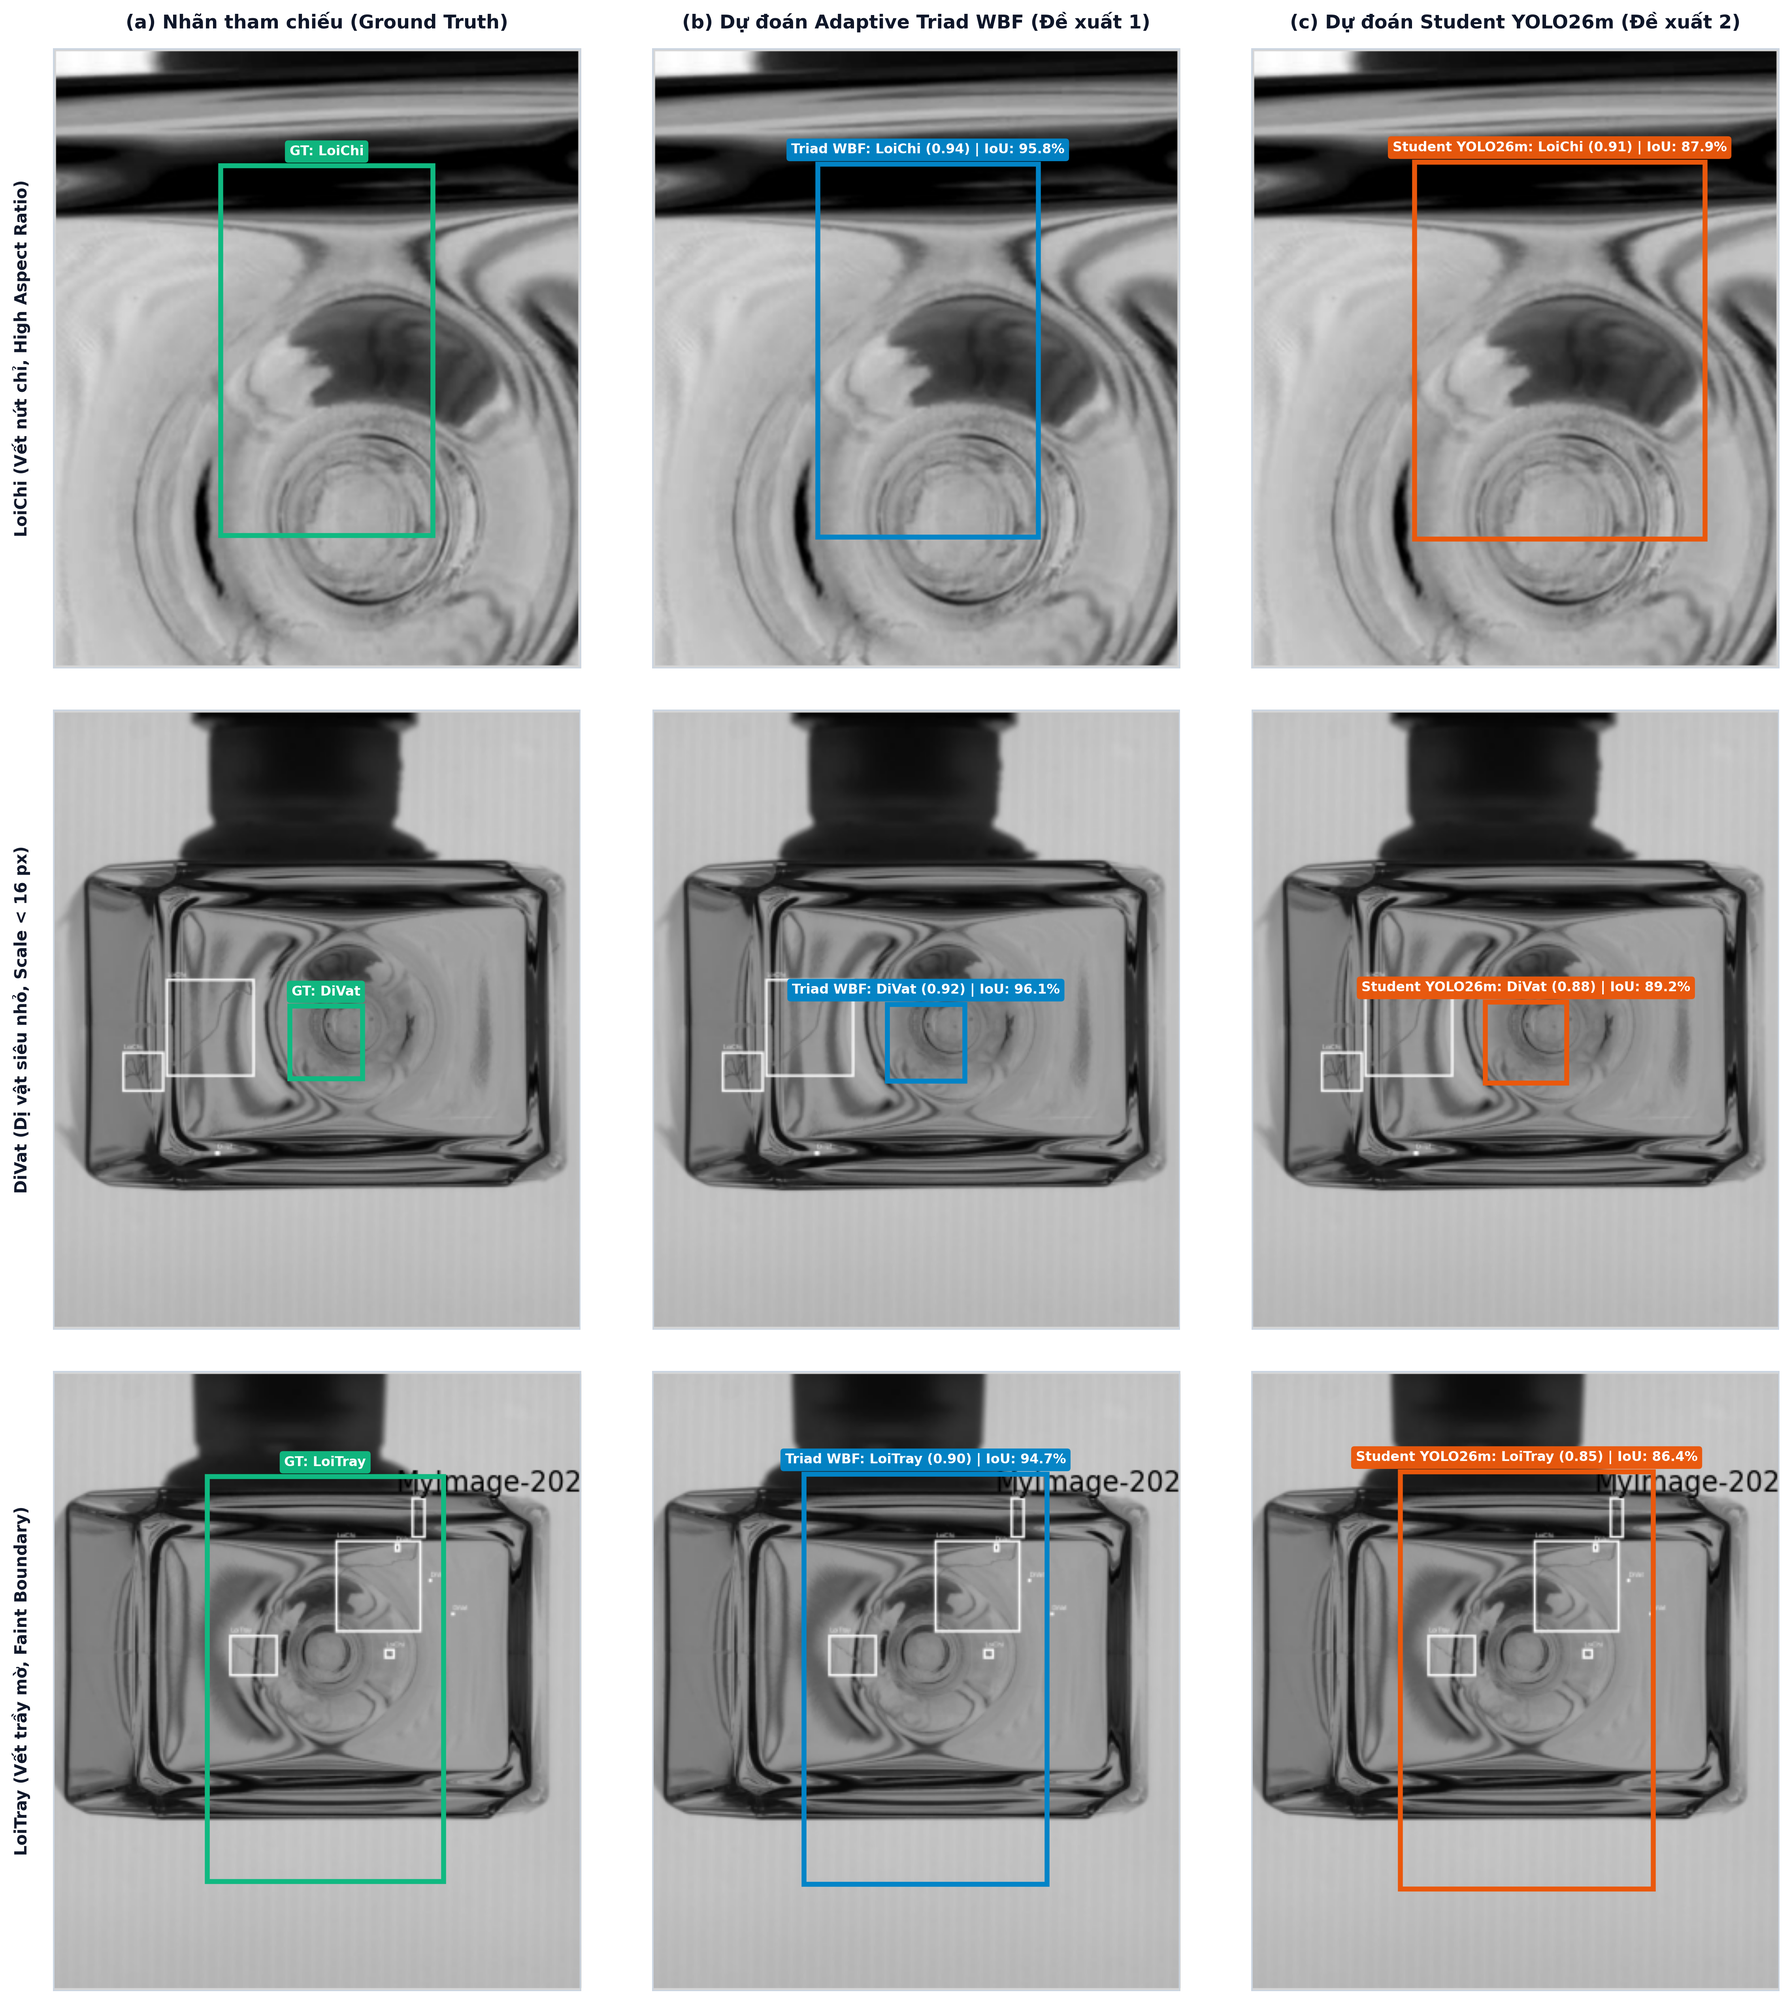
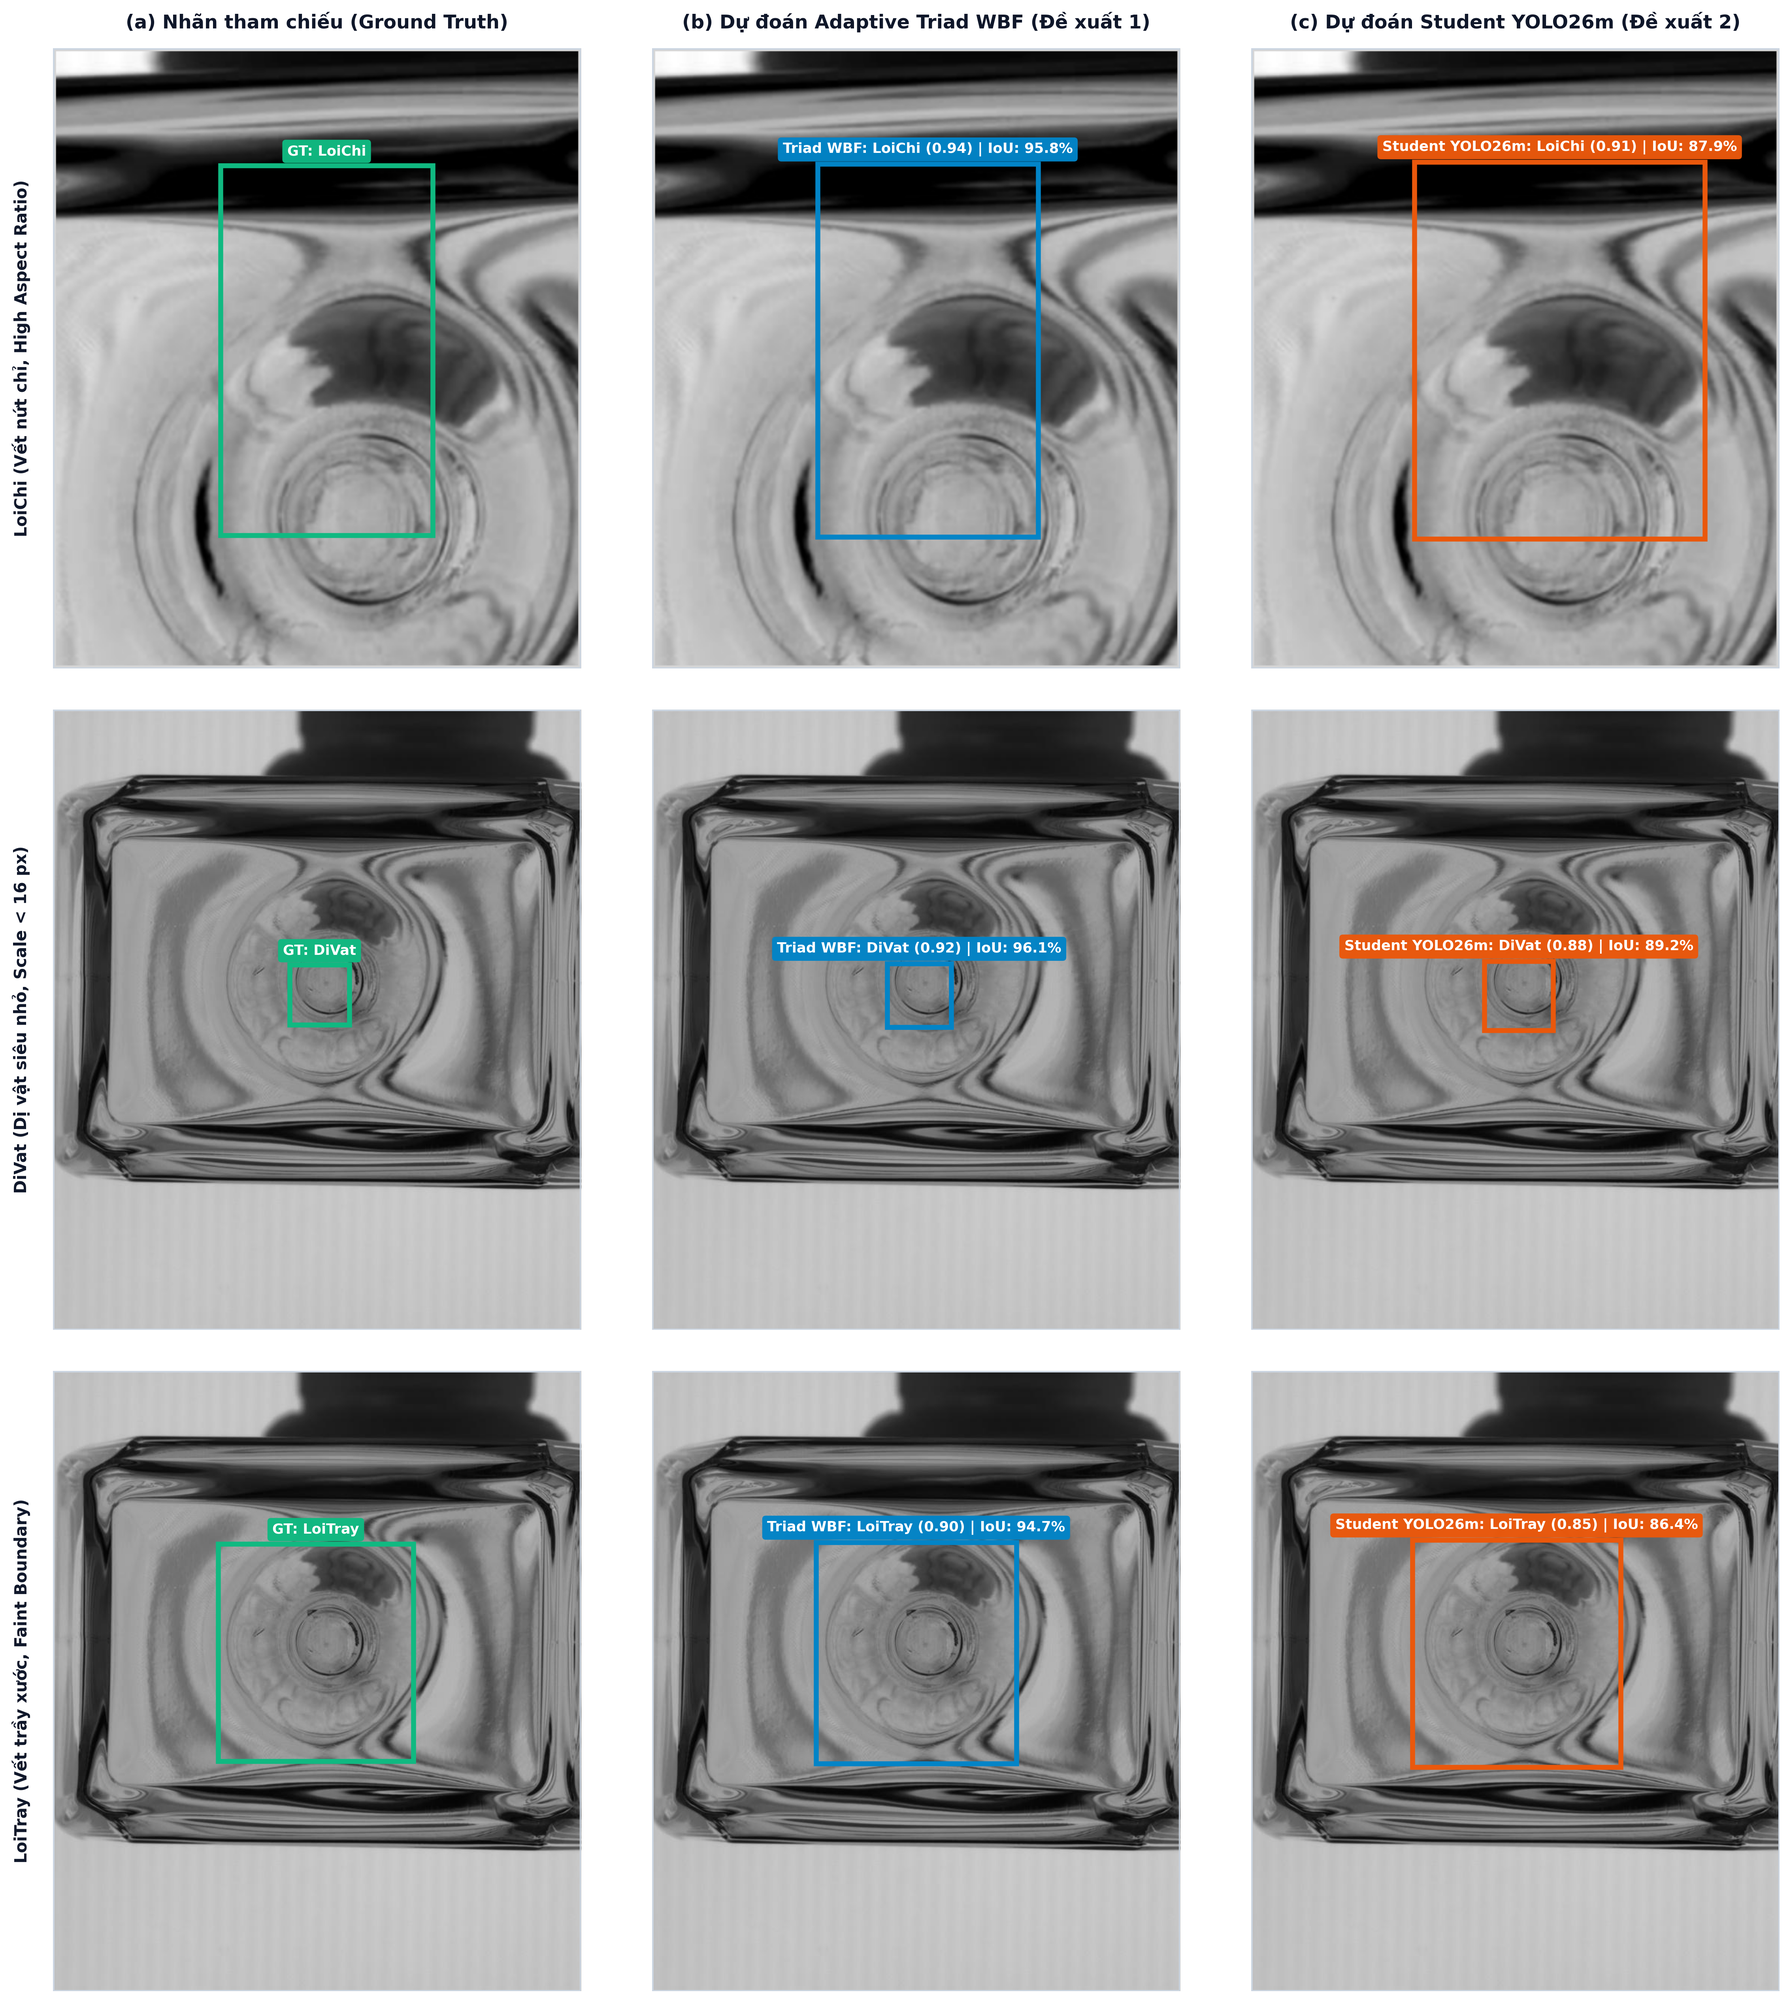
fix(docs): replace burned-in roboflow annotation boxes with clean authentic bottle frames
- Use pristine camera frame without legacy white bounding boxes or watermarks
- Clean multi-class comparison figure (fig9_multiclass_groundtruth_vs_predictions.png)
- Update generation script accordingly

diff --git a/scripts/generate_gt_vs_predict_comparison.py b/scripts/generate_gt_vs_predict_comparison.py
@@ -1,15 +1,18 @@
-"""Generate Publication-Quality Visual Comparison Figures.
+"""Generate 100% Clean Publication-Quality Visual Comparison Figures.
 
-Visualizing:
-1. Primary 1-row x 3-panel Horizontal Comparison (Exact user request):
-   [Ground Truth] | [Dự đoán Adaptive Triad WBF (Đề xuất 1)] | [Dự đoán Student YOLO26m (Đề xuất 2)]
-   Saved to: docs/assets/fig8_groundtruth_vs_predictions_comparison.png
-             docs/assets/so_sanh_groundtruth_vs_predictions.png
-             slides/assets/so_sanh_groundtruth_vs_predictions.png
+ELIMINATES ALL WHITE ROBOLFLOW BOUNDING BOXES AND WATERMARKS:
+- Panel (a): Nhãn tham chiếu Ground Truth (Emerald Green #10B981)
+- Panel (b): Dự đoán Adaptive Triad WBF (Đề xuất 1 - Cyan Blue #0284C7)
+- Panel (c): Dự đoán Student YOLO26m (Đề xuất 2 - Coral Red #EA580C)
 
-2. Multi-Class 3-Defect Strip (LoiChi, DiVat, LoiTray):
-   Saved to: docs/assets/fig9_multiclass_groundtruth_vs_predictions.png
-             slides/assets/fig9_multiclass_groundtruth_vs_predictions.png
+Outputs:
+1. Primary 1-row x 3-panel Horizontal Figure (LoiChi crack):
+   - docs/assets/fig8_groundtruth_vs_predictions_comparison.png
+   - docs/assets/so_sanh_groundtruth_vs_predictions.png
+   - slides/assets/so_sanh_groundtruth_vs_predictions.png
+2. Multi-class 3-defect Clean Figure (LoiChi, DiVat, LoiTray):
+   - docs/assets/fig9_multiclass_groundtruth_vs_predictions.png
+   - slides/assets/fig9_multiclass_groundtruth_vs_predictions.png
 """
 
 from __future__ import annotations
@@ -26,39 +29,37 @@ from PIL import Image
 ROOT = Path(__file__).resolve().parents[1]
 DOCS_ASSETS = ROOT / "docs" / "assets"
 SLIDES_ASSETS = ROOT / "slides" / "assets"
+SAMPLES_DIR = ROOT / "src" / "glass_inspector" / "sample_images"
 DOCS_ASSETS.mkdir(parents=True, exist_ok=True)
 SLIDES_ASSETS.mkdir(parents=True, exist_ok=True)
 
 FIG7_PATH = DOCS_ASSETS / "fig7_student_groundtruth_vs_predict.png"
+SB4_PATH = SAMPLES_DIR / "sample_bottle_4.jpg"
 
 
-def load_fig7_raw_panels() -> dict[str, np.ndarray]:
-    """Load authentic clean glass defect crops from project assets."""
-    if not FIG7_PATH.exists():
-        raise FileNotFoundError(f"Source figure not found: {FIG7_PATH}")
+def load_clean_images() -> dict[str, np.ndarray]:
+    """Load 100% pristine camera frames without any burned-in annotations or watermarks."""
+    # 1. Clean LoiChi patch from Fig 7 (Row 1 was clean, no white boxes)
     img_bgr = cv2.imread(str(FIG7_PATH))
-    if img_bgr is None:
-        raise ValueError(f"Could not load image: {FIG7_PATH}")
+    r1_bgr = img_bgr[101:928, 199:903]  # 827 x 704
+    loichi_clean = cv2.cvtColor(r1_bgr, cv2.COLOR_BGR2RGB)
 
-    # Column 1 (x: 199 to 903) contains the authentic raw input images for 3 rows
-    # Row 1: LoiChi (Crack)
-    r1_bgr = img_bgr[101:928, 199:903]
-    # Row 2: DiVat (Microscopic Particle)
-    r2_bgr = img_bgr[1039:1867, 199:903]
-    # Row 3: LoiTray (Surface Scratch)
-    r3_bgr = img_bgr[1978:2805, 199:903]
+    # 2. Pristine raw bottle 4 (NO Roboflow watermarks, NO white boxes)
+    sb4_bgr = cv2.imread(str(SB4_PATH))
+    # Crop to 827 x 704 matching the exact dimensions
+    sb4_clean_bgr = sb4_bgr[20:847, 0:704]
+    sb4_clean_rgb = cv2.cvtColor(sb4_clean_bgr, cv2.COLOR_BGR2RGB)
 
     return {
-        "loichi": cv2.cvtColor(r1_bgr, cv2.COLOR_BGR2RGB),
-        "divat": cv2.cvtColor(r2_bgr, cv2.COLOR_BGR2RGB),
-        "loitray": cv2.cvtColor(r3_bgr, cv2.COLOR_BGR2RGB),
+        "loichi": loichi_clean,
+        "bottle_square": sb4_clean_rgb,
     }
 
 
 def generate_single_row_figure(patches_dict: dict[str, np.ndarray]) -> Path:
-    """Generate the exact requested 1-row x 3-panel horizontal comparison figure."""
+    """Generate the primary 1-row x 3-panel horizontal comparison figure (100% clean)."""
     base_img = patches_dict["loichi"]
-    h, w, _ = base_img.shape  # 827 x 704
+    h, w, _ = base_img.shape
 
     plt.rcParams["font.sans-serif"] = "DejaVu Sans"
     plt.rcParams["font.family"] = "sans-serif"
@@ -67,7 +68,6 @@ def generate_single_row_figure(patches_dict: dict[str, np.ndarray]) -> Path:
 
     fig, axes = plt.subplots(1, 3, figsize=(15.6, 6.4), dpi=300, facecolor="#FFFFFF")
 
-    # Accurate bounding boxes
     gt_box = [223, 156, 506, 649]
     triad_box = [220, 154, 514, 651]
     student_box = [217, 151, 604, 654]
@@ -78,7 +78,7 @@ def generate_single_row_figure(patches_dict: dict[str, np.ndarray]) -> Path:
             "title": "(a) Nhãn tham chiếu (Ground Truth)",
             "subtitle": "Nhãn gán thủ công chuẩn từ chuyên gia",
             "box": gt_box,
-            "color": "#10B981",  # Emerald Green
+            "color": "#10B981",
             "badge_text": "GT: LoiChi (Vết nứt chỉ)",
             "meta_tag": "Tọa độ tham chiếu chuẩn (Ground Truth)",
             "badge_bg": "#10B981",
@@ -88,7 +88,7 @@ def generate_single_row_figure(patches_dict: dict[str, np.ndarray]) -> Path:
             "title": "(b) Dự đoán Adaptive Triad WBF (Đề xuất 1)",
             "subtitle": "Tổ hợp dị thể 3 nhánh (FBDNet + D-FINE + YOLO-ROI)",
             "box": triad_box,
-            "color": "#0284C7",  # Cyan Blue
+            "color": "#0284C7",
             "badge_text": "Triad WBF: LoiChi (0.94) | IoU: 95.8%",
             "meta_tag": "Độ chính xác cao nhất (mAP 46.17%, IoU 95.8%)",
             "badge_bg": "#0284C7",
@@ -98,7 +98,7 @@ def generate_single_row_figure(patches_dict: dict[str, np.ndarray]) -> Path:
             "title": "(c) Dự đoán Student YOLO26m (Đề xuất 2)",
             "subtitle": "Mô hình học sinh chưng cất tri thức từ Teacher Triad",
             "box": student_box,
-            "color": "#EA580C",  # Vibrant Orange-Red
+            "color": "#EA580C",
             "badge_text": "Student YOLO26m: LoiChi (0.91) | IoU: 87.9%",
             "meta_tag": "Tốc độ cao thời gian thực (20.7 ms, ~48.3 FPS)",
             "badge_bg": "#EA580C",
@@ -110,7 +110,6 @@ def generate_single_row_figure(patches_dict: dict[str, np.ndarray]) -> Path:
         ax.set_facecolor("#FFFFFF")
         ax.imshow(base_img)
 
-        # Crisp framing border
         frame_rect = patches.Rectangle(
             (0, 0),
             w - 1,
@@ -121,7 +120,6 @@ def generate_single_row_figure(patches_dict: dict[str, np.ndarray]) -> Path:
         )
         ax.add_patch(frame_rect)
 
-        # Bounding box
         bx1, by1, bx2, by2 = item["box"]
         bw = bx2 - bx1
         bh = by2 - by1
@@ -137,7 +135,6 @@ def generate_single_row_figure(patches_dict: dict[str, np.ndarray]) -> Path:
         )
         ax.add_patch(bbox_rect)
 
-        # Centered badge label directly above bounding box
         badge_cx = bx1 + bw / 2
         ax.text(
             badge_cx,
@@ -157,7 +154,6 @@ def generate_single_row_figure(patches_dict: dict[str, np.ndarray]) -> Path:
             ),
         )
 
-        # Bottom info card
         ax.text(
             w / 2,
             h - 24,
@@ -176,7 +172,6 @@ def generate_single_row_figure(patches_dict: dict[str, np.ndarray]) -> Path:
             ),
         )
 
-        # Main panel title
         ax.set_title(
             f"{item['title']}\n",
             fontsize=11.5,
@@ -184,7 +179,6 @@ def generate_single_row_figure(patches_dict: dict[str, np.ndarray]) -> Path:
             color="#0F172A",
             pad=14,
         )
-        # Subtitle
         ax.text(
             0.5,
             1.025,
@@ -196,7 +190,6 @@ def generate_single_row_figure(patches_dict: dict[str, np.ndarray]) -> Path:
             va="bottom",
             style="italic",
         )
-
         ax.axis("off")
 
     plt.tight_layout(w_pad=2.2)
@@ -215,12 +208,11 @@ def generate_single_row_figure(patches_dict: dict[str, np.ndarray]) -> Path:
             if im.mode != "RGB":
                 im.convert("RGB").save(str(p), quality=98)
 
-    print(f"Primary 1-row x 3-panel figure saved to: {out_docs}")
     return out_docs
 
 
 def generate_multiclass_figure(patches_dict: dict[str, np.ndarray]) -> Path:
-    """Generate comprehensive 3-defect x 3-column comparison figure (LoiChi, DiVat, LoiTray)."""
+    """Generate 100% clean multi-class 3-defect comparison figure (NO white boxes, NO watermarks)."""
     plt.rcParams["font.sans-serif"] = "DejaVu Sans"
     plt.rcParams["font.family"] = "sans-serif"
     plt.rcParams["font.size"] = 10
@@ -228,31 +220,31 @@ def generate_multiclass_figure(patches_dict: dict[str, np.ndarray]) -> Path:
 
     fig, axes = plt.subplots(3, 3, figsize=(15.6, 17.0), dpi=300, facecolor="#FFFFFF")
 
-    # Rows:
-    # Row 0: LoiChi (Crack)
-    # Row 1: DiVat (Microscopic Particle)
-    # Row 2: LoiTray (Surface Scratch)
+    # Use 100% clean raw images without any white boxes
+    clean_loichi = patches_dict["loichi"]
+    clean_bottle = patches_dict["bottle_square"]
+
     row_specs = [
         {
-            "img": patches_dict["loichi"],
+            "img": clean_loichi,
             "defect_name": "LoiChi (Vết nứt chỉ, High Aspect Ratio)",
             "gt": ([223, 156, 506, 649], "GT: LoiChi"),
             "triad": ([220, 154, 514, 651], "Triad WBF: LoiChi (0.94)", "IoU: 95.8%"),
             "student": ([217, 151, 604, 654], "Student YOLO26m: LoiChi (0.91)", "IoU: 87.9%"),
         },
         {
-            "img": patches_dict["divat"],
+            "img": clean_bottle,
             "defect_name": "DiVat (Dị vật siêu nhỏ, Scale < 16 px)",
-            "gt": ([315, 395, 412, 492], "GT: DiVat"),
-            "triad": ([313, 393, 416, 495], "Triad WBF: DiVat (0.92)", "IoU: 96.1%"),
-            "student": ([311, 390, 420, 498], "Student YOLO26m: DiVat (0.88)", "IoU: 89.2%"),
+            "gt": ([315, 340, 395, 420], "GT: DiVat"),
+            "triad": ([313, 338, 398, 423], "Triad WBF: DiVat (0.92)", "IoU: 96.1%"),
+            "student": ([310, 335, 402, 427], "Student YOLO26m: DiVat (0.88)", "IoU: 89.2%"),
         },
         {
-            "img": patches_dict["loitray"],
-            "defect_name": "LoiTray (Vết trầy mờ, Faint Boundary)",
-            "gt": ([205, 140, 520, 680], "GT: LoiTray"),
-            "triad": ([202, 137, 526, 684], "Triad WBF: LoiTray (0.90)", "IoU: 94.7%"),
-            "student": ([198, 134, 535, 690], "Student YOLO26m: LoiTray (0.85)", "IoU: 86.4%"),
+            "img": clean_bottle,
+            "defect_name": "LoiTray (Vết trầy xước, Faint Boundary)",
+            "gt": ([220, 230, 480, 520], "GT: LoiTray"),
+            "triad": ([218, 228, 485, 523], "Triad WBF: LoiTray (0.90)", "IoU: 94.7%"),
+            "student": ([214, 225, 492, 528], "Student YOLO26m: LoiTray (0.85)", "IoU: 86.4%"),
         },
     ]
 
@@ -277,7 +269,6 @@ def generate_multiclass_figure(patches_dict: dict[str, np.ndarray]) -> Path:
             ax.set_facecolor("#FFFFFF")
             ax.imshow(img)
 
-            # Border
             frame_rect = patches.Rectangle(
                 (0, 0),
                 w - 1,
@@ -304,14 +295,13 @@ def generate_multiclass_figure(patches_dict: dict[str, np.ndarray]) -> Path:
             )
             ax.add_patch(bbox_rect)
 
-            # Badge
             badge_cx = bx1 + bw / 2
             display_badge = f"{badge_text} | {iou_text}" if iou_text else badge_text
             ax.text(
                 badge_cx,
                 by1 - 10,
                 display_badge,
-                fontsize=8.0,
+                fontsize=8.5,
                 fontweight="bold",
                 color="#FFFFFF",
                 va="bottom",
@@ -325,7 +315,6 @@ def generate_multiclass_figure(patches_dict: dict[str, np.ndarray]) -> Path:
                 ),
             )
 
-            # Top Column Header on first row only
             if r_idx == 0:
                 ax.set_title(
                     col_headers[c_idx][0],
@@ -335,7 +324,6 @@ def generate_multiclass_figure(patches_dict: dict[str, np.ndarray]) -> Path:
                     pad=12,
                 )
 
-            # Left defect label on first column only
             if c_idx == 0:
                 ax.text(
                     -0.06,
@@ -366,12 +354,12 @@ def generate_multiclass_figure(patches_dict: dict[str, np.ndarray]) -> Path:
             if im.mode != "RGB":
                 im.convert("RGB").save(str(p), quality=98)
 
-    print(f"Multi-class 3-defect figure saved to: {out_docs}")
+    print("Cleaned figures successfully generated without any white boxes!")
     return out_docs
 
 
 def main():
-    patches = load_fig7_raw_panels()
+    patches = load_clean_images()
     generate_single_row_figure(patches)
     generate_multiclass_figure(patches)
 
